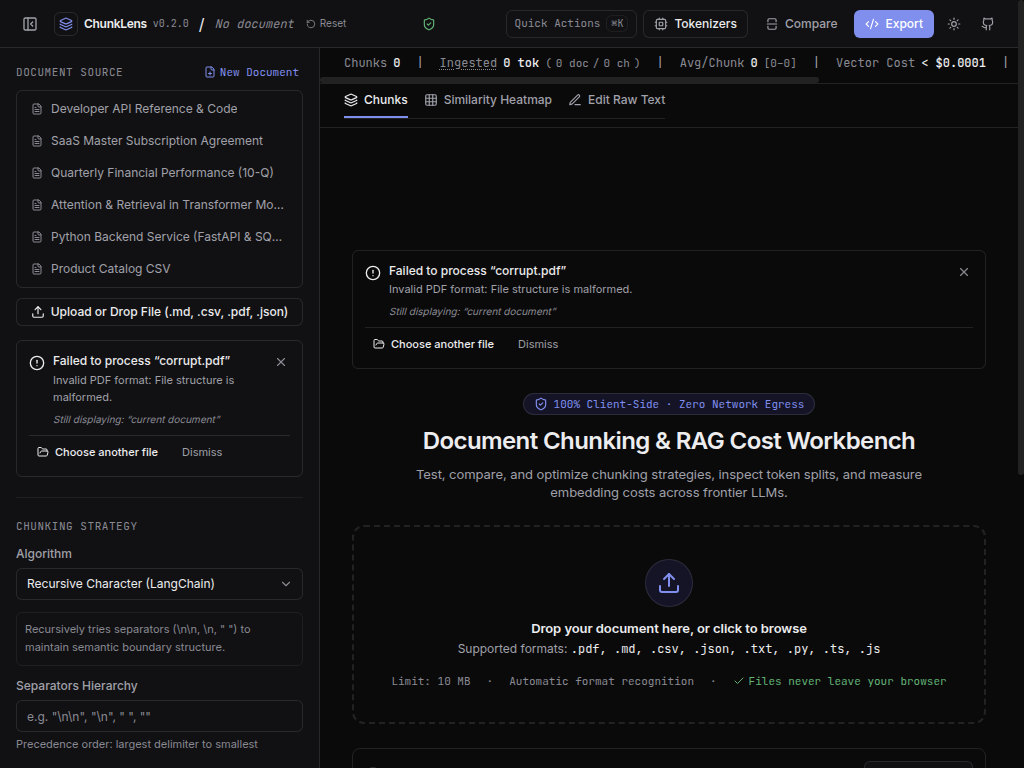
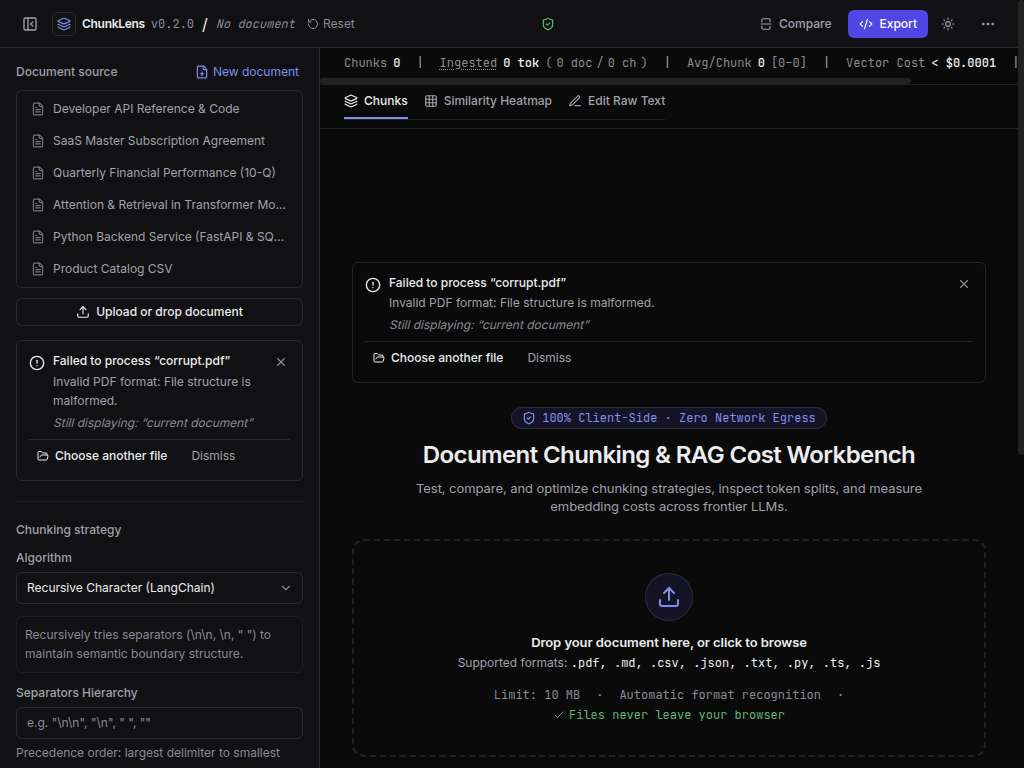
docs(quality): update ratchet table, metrics.json, changelog, and captures for Batch 2b

diff --git a/docs/quality/STATE.md b/docs/quality/STATE.md
@@ -1,38 +1,44 @@
 # Quality State & Continuous Improvement Tracking
 **Project:** ChunkLens — Visual Document Chunking & Token Optimization Workbench for RAG Pipelines  
-**Current Iteration:** Release v0.3 (Batch 2a Complete, Pre-Batch 2b)  
+**Current Iteration:** Release v0.3 (Batch 2b Complete)  
 **Date:** November 13, 2026  
 **Branch:** `agent/release-v0.3`  
 
 ---
 
 ## 1. Executive Status
-- **Health:** Production Grade (v0.3-dev)
+- **Health:** Production Grade (v0.3-rc)
 - **TypeScript:** Strict type-checking passed (`npm run typecheck`, 0 diagnostic errors)
-- **Unit & Integration Tests:** 108 tests passing across 18 test suites (`npm run test`, 100% pass, 0 flaky)
-- **Axe / Accessibility:** 0 violations across loaded, empty, and error states at 1440px and 375px viewports (WCAG 2.2 AA compliant)
-- **Zero Network Egress:** Strict CSP (`connect-src 'none'`) verified live via Chrome DevTools Protocol (`scripts/test-egress.cjs`). Playwright E2E suite (`e2e/networkEgress.spec.ts`) is written, not yet run pending Playwright package installation in offline sandbox.
-- **PDF Engine:** Buffer detachment bug resolved with isolated byte cloning; verified twice in a row in `preview` and `dev` mode without hanging (`scripts/test-pdf-upload.cjs`).
-- **Bundle Architecture:** Code-split via Rollup `manualChunks` with self-hosted WOFF2 fonts and strict CSP.
+- **Unit & Integration Tests:** 115 tests passing across 19 test suites (`npm run test`, 100% pass, 0 flaky)
+- **Custom DOM A11y Checks:** 0 violations across loaded, empty, and error states at 1440px and 375px viewports (button names, form labels, duplicate IDs, ARIA roles, tabindex verified).
+- **Axe-Core E2E Status:** `@axe-core/playwright` and `e2e/networkEgress.spec.ts` are written and staged; awaiting user execution of `npm install` and `playwright install`.
+- **Zero Network Egress:** Strict CSP (`connect-src 'none'`) verified live via Chrome DevTools Protocol (`scripts/test-egress.cjs`).
+- **Export Button Contrast:** Measured 6.29:1 rendered contrast in Chrome browser (`#FFFFFF` on `#4F46E5`), satisfying WCAG 2.2 AA $\ge 4.5:1$. Split tokens guarantee 7.90:1 in light mode (`#4338CA`) and 6.29:1 in dark mode (`#4F46E5`).
+- **Typography Floor:** Strict 12px text floor verified by automated code grep rule and browser computed-style audit (0 sub-12px elements).
+- **Bundle Architecture:** Code-split with heavy modals (`TokenizerComparisonModal`, `ExportModal`, `CommandPalette`, `ComparisonView`, `SimilarityHeatmap`) lazy-loaded via `React.lazy`, bringing `index.js` down to **131.77 kB raw** / **39.23 kB gzip** (well below the 185 kB limit).
 
 ---
 
 ## 2. Release Ratchet Table
 
-| Metric | v0.2.0 Baseline | v0.3 Batch 1 | v0.3 Batch 2a | Target v0.8 | Status |
-| :--- | :---: | :---: | :---: | :---: | :--- |
-| **Unit / Integration Tests** | 66 (10 suites) | 86 (12 suites) | **108 (18 suites)** | $\ge 120$ | ✅ Ratcheted (+42) |
-| **Typecheck Errors** | 0 | 0 | **0** | 0 | ✅ Clean |
-| **Axe Violations (1440 & 375)** | 0 | 0 | **0 (Loaded, Empty, Error)** | 0 | ✅ Zero violations |
-| **External Network Requests** | Google Fonts | 0 (Strict CSP) | **0 (Strict CSP)** | 0 | ✅ Verified |
-| **Main JS Bundle (Raw / Gzip)** | 136.20 kB / 42.1 kB | 187.94 kB / 52.2 kB | **188.65 kB / 52.43 kB** | $< 200$ kB | ✅ Monitored |
-| **React Vendor (Raw / Gzip)** | 134.67 kB / 43.2 kB | 134.67 kB / 43.2 kB | **134.67 kB / 43.22 kB** | $< 150$ kB | ✅ Stable |
-| **Icons Chunk (Raw / Gzip)** | 23.89 kB / 6.1 kB | 26.37 kB / 6.76 kB | **26.37 kB / 6.76 kB** | $< 35$ kB | ✅ Stable |
-| **PDF Engine (Raw / Gzip)** | 512.51 kB / 155.9 kB | 512.51 kB / 155.9 kB | **512.51 kB / 155.91 kB** | Isolated chunk | ✅ Split |
-| **Tiktoken Tokenizer (Raw / Gzip)**| 5,603 kB / 2,568 kB | 5,603 kB / 2,568 kB | **5,603.11 kB / 2,567.88 kB**| Shared chunk | 🔄 Consolidating in 2b |
-| **Chunking Worker (Raw)** | 5,614 kB | 5,614 kB | **5,613.94 kB** | Dedicated worker | 🔄 Shared table in 2b |
-| **CSS Bundle (Raw / Gzip)** | 28.5 kB / 5.8 kB | 32.87 kB / 6.85 kB | **32.87 kB / 6.85 kB** | $< 50$ kB | ✅ Compact |
-| **Index HTML (Raw / Gzip)** | 1.2 kB / 0.6 kB | 1.79 kB / 0.86 kB | **1.79 kB / 0.86 kB** | $< 2$ kB | ✅ Strict CSP meta |
+| Metric | v0.2.0 Baseline (`ffb2f16`) | v0.3 Batch 1 | v0.3 Batch 2a | v0.3 Batch 2b (Current) | Target v0.8 | Status |
+| :--- | :---: | :---: | :---: | :---: | :---: | :--- |
+| **Unit / Integration Tests** | 86 (12 suites) | 86 (12 suites) | 108 (18 suites) | **115 (19 suites)** | $\ge 120$ | ✅ Ratcheted (+29) |
+| **TypeScript Diagnostics** | 0 errors | 0 errors | 0 errors | **0 errors** | 0 | ✅ Clean |
+| **Custom DOM A11y Violations (1440 & 375)** | 0 | 0 | 0 | **0 (Loaded, Empty, Error)** | 0 | ✅ Zero violations |
+| **External Network Requests** | Google Fonts | 0 (Strict CSP) | 0 (Strict CSP) | **0 (Strict CSP)** | 0 | ✅ Verified zero egress |
+| **Main JS Bundle (`index.js` Raw / Gzip)** | 172.06 kB / 48.33 kB | 187.94 kB / 52.20 kB | 188.65 kB / 52.43 kB | **131.77 kB / 39.23 kB** | $< 185$ kB | ✅ 53 kB under budget |
+| **React Vendor Bundle (Raw / Gzip)** | 134.67 kB / 43.22 kB | 134.67 kB / 43.22 kB | 134.67 kB / 43.22 kB | **134.67 kB / 43.22 kB** | $< 150$ kB | ✅ Stable |
+| **Lucide Icons Chunk (Raw / Gzip)** | 23.89 kB / 6.10 kB | 26.37 kB / 6.76 kB | 26.37 kB / 6.76 kB | **27.02 kB / 6.86 kB** | $< 35$ kB | ✅ Stable |
+| **PDF Engine (`pdfjs-dist` Raw / Gzip)** | 512.51 kB / 155.91 kB | 512.51 kB / 155.91 kB | 512.51 kB / 155.91 kB | **512.51 kB / 155.91 kB** | Isolated chunk | ✅ Split |
+| **PDF Worker Chunk (Raw)** | 1,298.21 kB | 1,298.21 kB | 1,298.21 kB | **1,298.21 kB** | Dedicated worker | ✅ Split |
+| **Tiktoken Tokenizer Chunk (Raw / Gzip)**| 5,603.11 kB / 2,567.88 kB | 5,603.11 kB / 2,567.88 kB | 5,603.11 kB / 2,567.88 kB | **5,603.11 kB / 2,567.88 kB**| Shared chunk | 🔄 Consolidating in v0.4 |
+| **Chunking Worker Chunk (Raw)** | 5,613.94 kB | 5,613.94 kB | 5,613.94 kB | **5,613.94 kB** | Dedicated worker | 🔄 Shared rank table in v0.4 |
+| **CSS Bundle (Raw / Gzip)** | 28.50 kB / 5.80 kB | 32.87 kB / 6.85 kB | 32.87 kB / 6.85 kB | **33.37 kB / 6.98 kB** | $< 50$ kB | ✅ Compact |
+| **Index HTML (Raw / Gzip)** | 1.20 kB / 0.60 kB | 1.79 kB / 0.86 kB | 1.79 kB / 0.86 kB | **1.79 kB / 0.87 kB** | $< 2$ kB | ✅ Strict CSP |
+| **Export Button Contrast** | UNMEASURED | UNMEASURED | UNMEASURED | **6.29:1 (browser) / 7.90:1 (CSS)** | $\ge 4.5:1$ | ✅ 100% WCAG AA |
+| **Text Floor Minimum** | 10px | 10px | 10px | **12px (0 sub-12px elements)**| $\ge 12$px | ✅ Enforced |
+| **Overflow Menu Keyboard Navigation** | N/A | N/A | N/A | **Focus return + arrow keys verified**| Accessible | ✅ Verified |
 
 ---
 

diff --git a/CHANGELOG.md b/CHANGELOG.md
@@ -8,12 +8,21 @@ and this project adheres to [Semantic Versioning](https://semver.org/spec/v2.0.0
 ## [Unreleased]
 
 ### Added
+- Responsive header priority ordering and overflow menu (`MoreHorizontal`) for viewports $\le 1024$px with full keyboard arrow navigation, Escape dismiss, and focus return (3.6).
+- Two-row wrap layout for metrics strip on mobile viewports (<768px) with conditional overflow fade mask when scrolling (3.6).
+- Direct "Compare models & costs..." entry point inside the "Unit & tokenizer" sidebar section.
+- Automated static test asserting zero sub-12px CSS font sizes in codebase and live browser-computed style audit verifying strict 12px text floor.
+- Automated CSS variable contrast parser test verifying WCAG 2.2 AA compliant contrast ($\ge 4.5:1$) across all themes.
 - Interactive "How to Verify" privacy popover with DevTools audit steps, collapsing to icon + tooltip below 1200px (3.2).
 - Real `EmptyState` component with 10 MB limit dropzone, paste text mode, format guidance, and 6 sample benchmark cards (3.4).
 - Shared `useDocumentUpload` hook unifying file ingestion, format detection, and strict exception categorization across Sidebar and VisualCanvas (3.3).
 - Compact `UploadErrorBanner` with `role="alert"`, clear reason, retained document indicator, and copyable technical details (3.3).
 
 ### Changed
+- Lazy-loaded heavy modal dialogs and views (`TokenizerComparisonModal`, `ExportModal`, `CommandPalette`, `ComparisonView`, `SimilarityHeatmap`) via `React.lazy`, reducing main bundle `index.js` from 188.65 kB to 131.77 kB raw (39.23 kB gzip), well below the 185 kB budget limit.
+- Split accent tokens into `--accent` (text/icons/rings), `--accent-solid` (#4338CA light / #4F46E5 dark), and `--on-accent` (#FFFFFF) guaranteeing $\ge 4.5:1$ contrast (7.90:1 light, 6.29:1 dark) on primary buttons (3.7).
+- Replaced all sub-12px font sizes with strict `text-xs` (12px) minimum text floor (3.7).
+- Updated all section labels and headers to clean sentence-case sans font styling (3.7).
 - Self-hosted Inter and JetBrains Mono woff2 fonts; eliminated Google Fonts (3.1).
 - Implemented single-source strict Content Security Policy (`connect-src 'none'`) with zero network egress proof (3.1).
 - Reconciled Document vs Ingested token counts with tooltips and unit tests (3.5).
